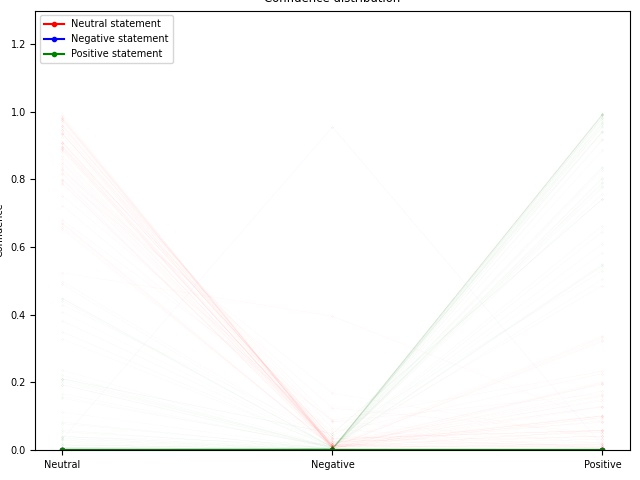
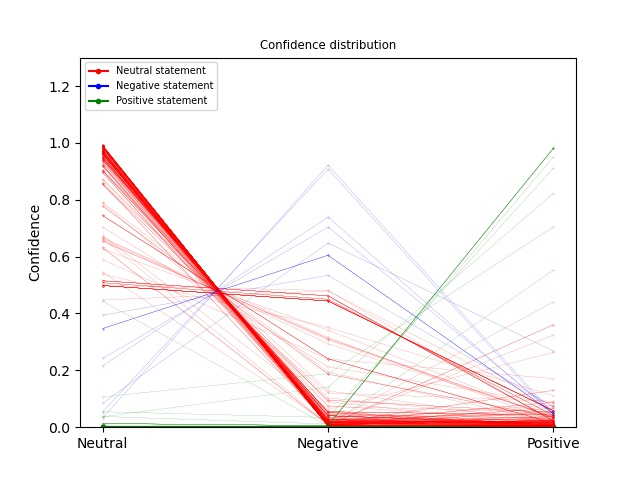
styled graph to center

diff --git a/mysite/GUI/static/GUI/style.css b/mysite/GUI/static/GUI/style.css
@@ -1,5 +1,5 @@
 body {background-color: #00acee; color: white; font-family: Helvetica, sans-serif; margin: 0}
-h1 {text-align: center; font-family: Helvetica, sans-serif; margin-top: 20px; padding-bottom: 80px}
+h1 {text-align: center; font-family: Helvetica, sans-serif; margin-top: 20px; padding-bottom: 30px}
 
 .navbar {background-color: #333; overflow: hidden; position: fixed; bottom: 0; width: 100%;}
 .navbar a {float: right; display: block; color: #f2f2f2; text-align: center; padding: 14px 16px; text-decoration: none; font-size: 15px;}
@@ -22,5 +22,13 @@ p {text-align: center}
 .button:hover span {padding-right: 25px;}
 .button:hover span:after {opacity: 1; right: 0;}
 
+.button2 {display: inline-block; background-color: white; border: none; color: black; text-align: center; font-size: 15px; padding: 10px 24px; width: 131px; transition: all 0.5s; cursor: pointer; margin: 5px; border-radius: 8px; margin-top: 425px; margin-bottom: 250px}
+.button2 span {cursor: pointer; display: inline-block; position: relative; transition: 0.5s;}
+.button2 span:after {content: '\00bb'; position: absolute; opacity: 0; top: 0; right: -20px; transition: 0.5s;}
+.button2:hover span {padding-right: 25px;}
+.button2:hover span:after {opacity: 1; right: 0;}
+
 input {width: 300px; margin-top: 10px; margin-bottom: 10px; border: none;}
 form {text-align: center;}
+
+#graphImage img {height: 15rem; margin-bottom: 100px; margin-top: 220px}

diff --git a/mysite/GUI/templates/GUI/ResultsPage.html b/mysite/GUI/templates/GUI/ResultsPage.html
@@ -21,11 +21,14 @@
 
     <div id='piechart' align='center'></div>
     
-    <a id="graphImage" href="{% url 'GUI:Search' %}">
-        <img src="add image source here"">
-    </a>
-    
     <script type="text/javascript" src="https://www.gstatic.com/charts/loader.js"></script>
+
+        <script type="text/javascript" src="https://www.gstatic.com/charts/loader.js"></script>
+    <div class="container">
+        <a id="graphImage" href="{% url 'GUI:Search' %}">
+            <img src="/static/GUI/images/distChart.jpg" alt="distChart">
+        </a>
+    </div>
 
     <script type="text/javascript">
     // Load google charts
@@ -45,7 +48,7 @@
     }
     </script>
     <div class="container">
-        <button class="button" onclick="history.back()"><span>Go Back</span></button>
+        <button class="button2" onclick="history.back()"><span>Go Back</span></button>
     </div>
 </body>
 </html> 

diff --git a/mysite/GUI/sentiment.py b/mysite/GUI/sentiment.py
@@ -83,16 +83,15 @@ class AiSentiment:
         ax.plot(['Neutral', 'Negative', 'Positive'], [0, 0, 0], '.b-', label="Negative statement")
         ax.plot(['Neutral', 'Negative', 'Positive'], [0, 0, 0], '.g-', label="Positive statement")
         for i in self.data['Neutral']:
-            ax.plot(['Neutral','Negative','Positive'], i.T, '.r-', linewidth=0.01, markersize=0.05)
+            ax.plot(['Neutral','Negative','Positive'], i.T, '.r-', linewidth=0.1, markersize=0.2)
         for i in self.data['Negative']:
-            ax.plot(['Neutral','Negative','Positive'], i.T, '.b-', linewidth=0.01, markersize=0.05)
+            ax.plot(['Neutral','Negative','Positive'], i.T, '.b-', linewidth=0.1, markersize=0.2)
         for i in self.data['Positive']:
-            ax.plot(['Neutral','Negative','Positive'], i.T, '.g-', linewidth=0.01, markersize=0.05)
+            ax.plot(['Neutral','Negative','Positive'], i.T, '.g-', linewidth=0.1, markersize=0.2)
 
         plt.rcParams["font.size"] = 7
         plt.legend(loc='upper left')
         plt.ylim(0, 1.3)
-        plt.tight_layout()
         plt.title("Confidence distribution")
         plt.ylabel("Confidence")
         plt.savefig("GUI/static/GUI/images/distChart.jpg")

diff --git a/mysite/GUI/Web_Crawler.py b/mysite/GUI/Web_Crawler.py
@@ -30,7 +30,7 @@ class twitterCrawl:
             else:
                 self.results.append(tweet.text)
 
-    def search_tweets_v2(self, query, max=100):
+    def search_tweets_v2(self, query, max=250):
         for tweet in tweepy.Paginator(self.__client.search_recent_tweets, query=query,
                                       tweet_fields=['context_annotations', 'created_at'], max_results=100).flatten(limit=max):
             self.results.append(tweet.data)
